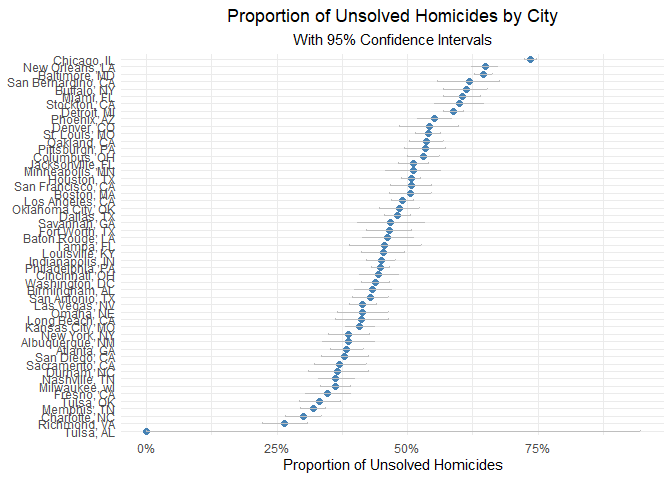
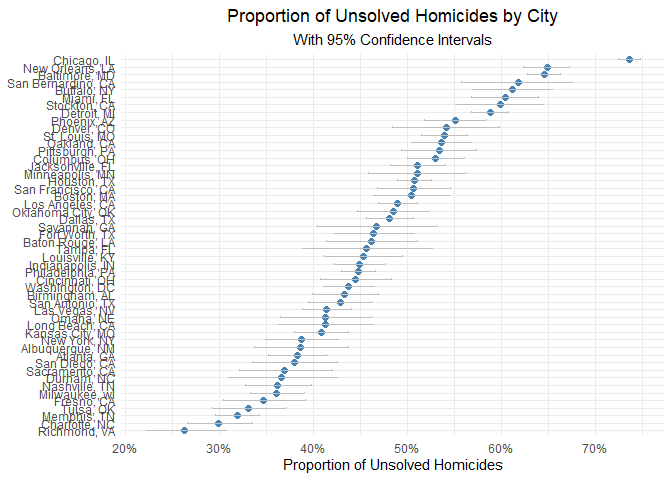
delete "Tulsa, AL"

Changed region(s): [[0.0, 0.125, 0.8438, 0.9688], [0.7188, 0.9062, 0.8125, 0.9688], [0.875, 0.9062, 0.9062, 0.9688]]

diff --git a/p8105_hw5_LC4052.md b/p8105_hw5_LC4052.md
@@ -274,12 +274,13 @@ victim_race, victim_age, victim_sex, city, state, lat, lon, disposition.
 # Create city_state variable
 homicide_summary = 
   homicide_data |>
-  mutate(city_state = str_c(city, ", ", state))
+  mutate(city_state = str_c(city, ", ", state)) |>
+  filter(city_state != "Tulsa, AL")
 
 homicide_summary
 ```
 
-    ## # A tibble: 52,179 × 13
+    ## # A tibble: 52,178 × 13
     ##    uid        reported_date victim_last  victim_first victim_race victim_age
     ##    <chr>              <dbl> <chr>        <chr>        <chr>       <chr>     
     ##  1 Alb-000001      20100504 GARCIA       JUAN         Hispanic    78        
@@ -292,7 +293,7 @@ homicide_summary
     ##  8 Alb-000008      20100127 MALDONADO    CONNIE       Hispanic    52        
     ##  9 Alb-000009      20100130 MARTIN-LEYVA GUSTAVO      White       56        
     ## 10 Alb-000010      20100210 HERRERA      ISRAEL       Hispanic    43        
-    ## # ℹ 52,169 more rows
+    ## # ℹ 52,168 more rows
     ## # ℹ 7 more variables: victim_sex <chr>, city <chr>, state <chr>, lat <dbl>,
     ## #   lon <dbl>, disposition <chr>, city_state <chr>
 
@@ -309,7 +310,7 @@ homicide_comparison =
 homicide_comparison 
 ```
 
-    ## # A tibble: 51 × 3
+    ## # A tibble: 50 × 3
     ##    city_state      total_homicides unsolved_homicides
     ##    <chr>                     <int>              <int>
     ##  1 Albuquerque, NM             378                146
@@ -322,7 +323,7 @@ homicide_comparison
     ##  8 Charlotte, NC               687                206
     ##  9 Chicago, IL                5535               4073
     ## 10 Cincinnati, OH              694                309
-    ## # ℹ 41 more rows
+    ## # ℹ 40 more rows
 
 ``` r
 # Study the city of Baltimore, MD
@@ -379,18 +380,11 @@ city_prop =
   unnest(tidy_result) |>
   select(city_state, total_homicides, unsolved_homicides, 
          estimate, conf.low, conf.high)
-```
 
-    ## Warning: There was 1 warning in `mutate()`.
-    ## ℹ In argument: `prop_test_result = purrr::map2(...)`.
-    ## Caused by warning in `prop.test()`:
-    ## ! Chi-squared approximation may be incorrect
-
-``` r
 city_prop
 ```
 
-    ## # A tibble: 51 × 6
+    ## # A tibble: 50 × 6
     ##    city_state     total_homicides unsolved_homicides estimate conf.low conf.high
     ##    <chr>                    <int>              <int>    <dbl>    <dbl>     <dbl>
     ##  1 Albuquerque, …             378                146    0.386    0.337     0.438
@@ -403,7 +397,7 @@ city_prop
     ##  8 Charlotte, NC              687                206    0.300    0.266     0.336
     ##  9 Chicago, IL               5535               4073    0.736    0.724     0.747
     ## 10 Cincinnati, OH             694                309    0.445    0.408     0.483
-    ## # ℹ 41 more rows
+    ## # ℹ 40 more rows
 
 ``` r
 # Draw a plot
